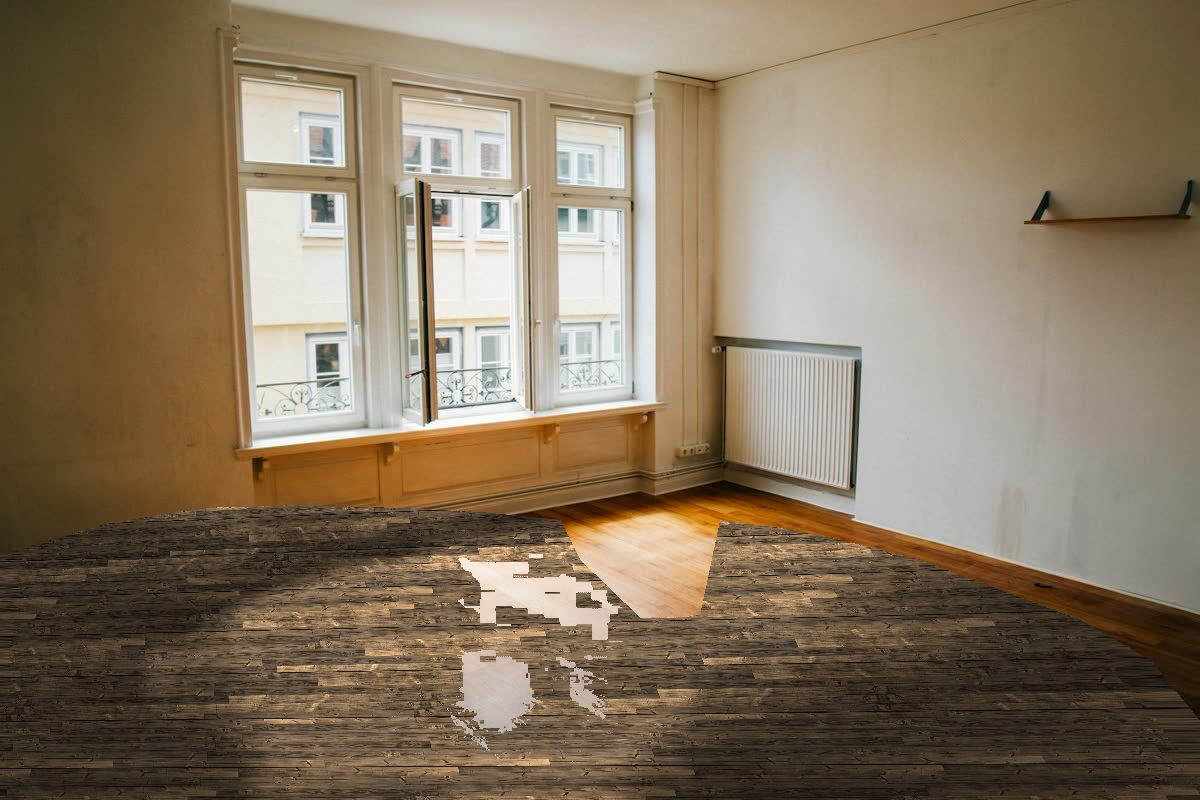
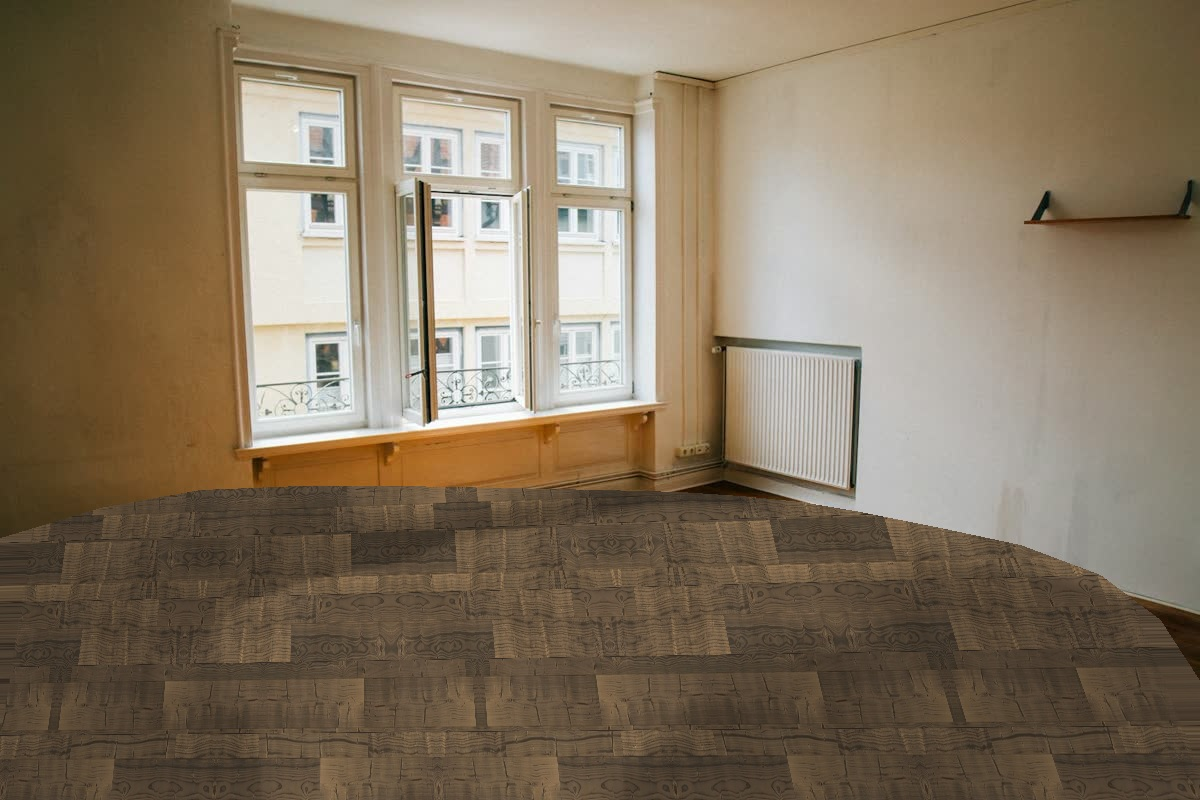
Calm living/open after planks: larger boards, lower contrast.
Rebuild only gallery after-living and after-open from warm-oak with
single-plank sampling, mirrored length tiling, and softer lighting mix.
Tighten open furniture occluders (no carpet-clear on beige seats). Leave
bath after, Denver before, footer, and GoatCounter untouched. Cache-bust
the two after URLs.

Changed region(s): [[0.0, 0.5938, 1.0, 1.0]]

diff --git a/projects.js b/projects.js
@@ -35,7 +35,7 @@ function seedProjects() {
       notes:
         "Example composite: warm oak plank look on the empty-room before photo (not a finished install photo).",
       before: [{ src: "gallery/before-living-empty.jpg?v=20260930b", label: "Before" }],
-      after: [{ src: "gallery/after-living-warm-oak.jpg?v=20260930b", label: "After" }],
+      after: [{ src: "gallery/after-living-warm-oak.jpg?v=20260930c", label: "After" }],
       createdAt: "2026-01-12T12:00:00.000Z"
     },
     {
@@ -61,7 +61,7 @@ function seedProjects() {
       notes:
         "Example composite: warm oak plank look on the open-plan before photo (not a finished install photo).",
       before: [{ src: "gallery/before-open-carpet.jpg?v=20260930b", label: "Before" }],
-      after: [{ src: "gallery/after-open-warm-oak.jpg?v=20260930b", label: "After" }],
+      after: [{ src: "gallery/after-open-warm-oak.jpg?v=20260930c", label: "After" }],
       createdAt: "2026-03-20T18:00:00.000Z"
     }
   ];

diff --git a/scripts/make_gallery_afters.py b/scripts/make_gallery_afters.py
@@ -30,41 +30,76 @@ def make_plank_floor(
     grain_along: str = "x",
     rotate_tex90: bool = False,
     length_mult=(48.0, 80.0),
+    contrast: float = 1.04,
+    tex_scale: float = 2.0,
+    jitter=(0.88, 1.12),
+    seam_rgb=(16, 20, 26),
 ) -> np.ndarray:
+    """Build a plank sheet. contrast<1 calms busy grain; keep tex_scale>=1 for crisp edges."""
     t = tex_bgr
     if rotate_tex90:
         t = cv2.rotate(t, cv2.ROTATE_90_CLOCKWISE)
     th, tw = t.shape[:2]
-    t = cv2.resize(t, (tw * 2, th * 2), interpolation=cv2.INTER_CUBIC)
-    th, tw = t.shape[:2]
+    if abs(tex_scale - 1.0) > 1e-3:
+        t = cv2.resize(
+            t,
+            (max(8, int(round(tw * tex_scale))), max(8, int(round(th * tex_scale)))),
+            interpolation=cv2.INTER_AREA if tex_scale < 1.0 else cv2.INTER_CUBIC,
+        )
+        th, tw = t.shape[:2]
+    # Lower contrast on source (no blur) so knots/grain calm down without mush
+    if abs(contrast - 1.0) > 1e-3:
+        lab = cv2.cvtColor(t, cv2.COLOR_BGR2LAB).astype(np.float32)
+        L = lab[:, :, 0]
+        mean_L = float(L.mean())
+        lab[:, :, 0] = np.clip((L - mean_L) * contrast + mean_L, 0, 255)
+        # Slightly pull chroma toward mean to reduce busy color flecks
+        for c in (1, 2):
+            ch = lab[:, :, c]
+            m = float(ch.mean())
+            lab[:, :, c] = np.clip((ch - m) * min(1.0, contrast + 0.08) + m, 0, 255)
+        t = cv2.cvtColor(lab.astype(np.uint8), cv2.COLOR_LAB2BGR)
     floor = np.zeros((out_h, out_w, 3), dtype=np.uint8)
-    seam_color = np.array([16, 20, 26], dtype=np.uint8)
+    seam_color = np.array(seam_rgb, dtype=np.uint8)
 
     def sample_board(dst_w, dst_h, along="x"):
+        # Warm-oak already contains ~12–15 source planks — sample ~one plank
+        # strip so boards don't inherit internal seams. Mirror-tile along
+        # length to avoid a hard grid of identical repeats.
+        def mirror_tile_1d(band, axis, need, origin):
+            unit = band
+            flip = np.flip(band, axis=axis)
+            parts = []
+            while True:
+                total = sum(p.shape[axis] for p in parts) if parts else 0
+                if total - origin >= need:
+                    break
+                parts.append(unit if len(parts) % 2 == 0 else flip)
+                if len(parts) > 64:
+                    break
+            tiled = np.concatenate(parts, axis=axis)
+            if axis == 1:
+                return tiled[:, origin : origin + need]
+            return tiled[origin : origin + need]
+
         if along == "x":
-            band_h = max(12, min(th // 3, th - 1))
+            band_h = max(12, min(max(18, th // 11), th - 1))
             sy = int(RNG.integers(0, max(1, th - band_h)))
             band = t[sy : sy + band_h]
             ox = int(RNG.integers(0, tw))
-            tiled = np.concatenate([band] * 8, axis=1)
             need = max(dst_w + 32, tw)
-            if tiled.shape[1] - ox < need:
-                tiled = np.concatenate([tiled, tiled], axis=1)
-            patch = tiled[:, ox : ox + need]
+            patch = mirror_tile_1d(band, 1, need, ox)
             board = cv2.resize(patch, (dst_w, dst_h), interpolation=cv2.INTER_LINEAR)
         else:
-            band_w = max(12, min(tw // 3, tw - 1))
+            band_w = max(12, min(max(18, tw // 11), tw - 1))
             sx = int(RNG.integers(0, max(1, tw - band_w)))
             band = t[:, sx : sx + band_w]
             oy = int(RNG.integers(0, th))
-            tiled = np.concatenate([band] * 8, axis=0)
             need = max(dst_h + 32, th)
-            if tiled.shape[0] - oy < need:
-                tiled = np.concatenate([tiled, tiled], axis=0)
-            patch = tiled[oy : oy + need]
+            patch = mirror_tile_1d(band, 0, need, oy)
             board = cv2.resize(patch, (dst_w, dst_h), interpolation=cv2.INTER_LINEAR)
-        jitter = float(RNG.uniform(0.88, 1.12))
-        return np.clip(board.astype(np.float32) * jitter, 0, 255).astype(np.uint8)
+        j = float(RNG.uniform(*jitter))
+        return np.clip(board.astype(np.float32) * j, 0, 255).astype(np.uint8)
 
     if grain_along == "x":
         y, row = 0, 0
@@ -105,8 +140,9 @@ def make_plank_floor(
             x = x2 + seam
             col += 1
 
+    # Mild midtone tidy only — avoid re-punching contrast after calm pass
     lab = cv2.cvtColor(floor, cv2.COLOR_BGR2LAB).astype(np.float32)
-    lab[:, :, 0] = np.clip((lab[:, :, 0] - 128) * 1.04 + 128, 0, 255)
+    lab[:, :, 0] = np.clip((lab[:, :, 0] - 128) * 1.01 + 128, 0, 255)
     return cv2.cvtColor(lab.astype(np.uint8), cv2.COLOR_LAB2BGR)
 
 
@@ -136,14 +172,20 @@ def luminance_ratio(bgr, mask, blur=71):
     return np.clip(cv2.GaussianBlur(L, (k, k), 0) / mean_L, 0.62, 1.4)
 
 
-def composite(before, warped, floor_mask, occluder_mask=None, lighting=True):
+def composite(before, warped, floor_mask, occluder_mask=None, lighting=True, light_mix=1.0, light_clip=(0.62, 1.4)):
+    """light_mix<1 blends luminance toward 1.0 (calmer); light_clip tightens extremes."""
     fm = floor_mask.astype(np.float32) / 255.0
     if occluder_mask is not None:
         fm = fm * (1.0 - occluder_mask.astype(np.float32) / 255.0)
     m = fm[..., None]
     floor = warped.astype(np.float32)
     if lighting:
-        floor = np.clip(floor * luminance_ratio(before, (fm * 255).astype(np.uint8))[..., None], 0, 255)
+        ratio = luminance_ratio(before, (fm * 255).astype(np.uint8))
+        lo, hi = light_clip
+        ratio = np.clip(ratio, lo, hi)
+        if light_mix < 1.0:
+            ratio = light_mix * ratio + (1.0 - light_mix)
+        floor = np.clip(floor * ratio[..., None], 0, 255)
     out = before.astype(np.float32) * (1.0 - m) + floor * m
     return np.clip(out, 0, 255).astype(np.uint8)
 
@@ -167,22 +209,27 @@ def make_living():
     h, w = before.shape[:2]
     tex = cv2.imread(str(TEXTURES / "warm-oak.jpg"))
     sheet = make_plank_floor(
-        tex, out_w=5200, out_h=3000, plank_w=210, seam=3,
-        grain_along="x", rotate_tex90=True, length_mult=(55.0, 90.0),
+        tex, out_w=5200, out_h=3000, plank_w=420, seam=2,
+        grain_along="x", rotate_tex90=True, length_mult=(85.0, 140.0),
+        contrast=0.55, tex_scale=1.0, jitter=(0.97, 1.03),
+        seam_rgb=(36, 42, 50),
     )
     # Stay on floor only — top edge = baseboard under windows (~y 490–540)
     floor_poly = [
-        (0, h - 1), (w - 1, h - 1), (w - 1, 700),
-        (1160, 640), (1100, 600), (1020, 560), (940, 535),
-        (860, 518), (800, 508), (740, 502), (680, 498),
-        (600, 496), (500, 494), (400, 492), (300, 491),
-        (200, 494), (100, 512), (0, 542),
+        (0, h - 1), (w - 1, h - 1), (w - 1, 680),
+        (1160, 620), (1100, 575), (1020, 545), (940, 528),
+        (860, 512), (800, 502), (740, 496), (680, 492),
+        (600, 490), (500, 488), (400, 486), (300, 486),
+        (200, 490), (100, 508), (0, 538),
     ]
-    floor_mask = poly_mask((h, w), floor_poly, feather=1)
+    floor_mask = poly_mask((h, w), floor_poly, feather=0)
     dst = np.array([[0, h - 1], [w - 1, h - 1], [1080, 500], [40, 535]], np.float32)
-    src = np.array([[50, 2900], [5150, 2900], [5150, 2900 - 210 * 6], [50, 2900 - 210 * 6]], np.float32)
+    src = np.array([[50, 2900], [5150, 2900], [5150, 2900 - 420 * 4], [50, 2900 - 420 * 4]], np.float32)
     warped = warp_floor(sheet, (h, w), src, dst)
-    after = composite(before, warped, floor_mask, None, lighting=True)
+    after = composite(
+        before, warped, floor_mask, None, lighting=True,
+        light_mix=0.65, light_clip=(0.80, 1.18),
+    )
     save_qa("living", before, floor_mask, None, after, sheet)
     path = GALLERY / "after-living-warm-oak.jpg"
     cv2.imwrite(str(path), after, [int(cv2.IMWRITE_JPEG_QUALITY), 94])
@@ -313,8 +360,10 @@ def make_open():
     h, w = before.shape[:2]
     tex = cv2.imread(str(TEXTURES / "warm-oak.jpg"))
     sheet = make_plank_floor(
-        tex, out_w=5000, out_h=4500, plank_w=185, seam=3,
-        grain_along="y", rotate_tex90=False, length_mult=(52.0, 88.0),
+        tex, out_w=5000, out_h=4500, plank_w=400, seam=2,
+        grain_along="y", rotate_tex90=False, length_mult=(85.0, 140.0),
+        contrast=0.52, tex_scale=1.0, jitter=(0.97, 1.03),
+        seam_rgb=(36, 42, 50),
     )
     # Floor envelope — do not climb furniture/walls; back edge ~y 400–420 at far carpet
     floor_poly = [
@@ -323,36 +372,57 @@ def make_open():
         (640, 412), (560, 420), (480, 450), (400, 510),
         (320, 575), (230, 650), (120, 720), (0, 770),
     ]
-    floor_mask = poly_mask((h, w), floor_poly, feather=1)
+    floor_mask = poly_mask((h, w), floor_poly, feather=0)
     # Wall safety: no overlay in top 38% of frame
     floor_mask[: int(h * 0.38), :] = 0
 
-    # Occluders: furniture (not carpet)
-    bgr = before.astype(np.float32)
-    brightness = bgr.mean(axis=2)
-    sat = bgr.max(axis=2) - bgr.min(axis=2)
-    carpet = ((brightness > 155) & (sat < 48)) | ((brightness > 125) & (brightness <= 155) & (sat < 38))
+    # Hard furniture silhouettes (beige fabric ~= carpet brightness, so NEVER
+    # use carpet-clear inside these — that was painting seats). Floor between
+    # chairs is simply outside these polys.
     occ = np.zeros((h, w), np.uint8)
-    cv2.fillPoly(occ, [np.array([(0, 450), (400, 440), (520, 565), (500, h - 1), (0, h - 1)], np.int32)], 255)
-    cv2.rectangle(occ, (300, 450), (415, 640), 255, -1)
-    for cx, cy, r in [(770, 530, 48), (860, 510, 48), (950, 530, 48), (800, 610, 38), (900, 620, 38), (980, 600, 38)]:
-        cv2.circle(occ, (cx, cy), r, 255, -1)
-    cv2.fillPoly(occ, [np.array([(460, 415), (650, 410), (730, 470), (700, 555), (510, 560), (440, 485)], np.int32)], 255)
-    cv2.ellipse(occ, (510, 470), (48, 62), 0, 0, 360, 255, -1)
-    # Keep furniture pixels; clear carpet between legs
-    furniture = (occ > 0) & (~carpet)
-    occ = furniture.astype(np.uint8) * 255
-    dining = np.zeros((h, w), np.uint8)
-    cv2.rectangle(dining, (700, 500), (1100, 700), 255, -1)
-    occ[(dining > 0) & carpet] = 0
-    for cx, cy, r in [(772, 575, 8), (852, 555, 8), (938, 575, 8), (814, 642, 7), (894, 655, 7), (974, 630, 7)]:
-        cv2.circle(occ, (cx, cy), r, 255, -1)
-    occ = cv2.GaussianBlur(occ, (5, 5), 0)
+    # Foreground left armchair body only — leave carpet in front / to the right for planks
+    cv2.fillPoly(
+        occ,
+        [np.array([
+            (0, 475), (230, 455), (305, 490), (335, 560),
+            (328, 655), (300, 705), (250, 725), (120, 735), (0, 720),
+        ], np.int32)],
+        255,
+    )
+    # Second armchair body + side table (not floor under/around)
+    cv2.fillPoly(
+        occ,
+        [np.array([
+            (290, 448), (420, 440), (485, 470), (510, 530),
+            (495, 600), (450, 640), (380, 645), (310, 615), (285, 540),
+        ], np.int32)],
+        255,
+    )
+    cv2.rectangle(occ, (405, 455), (515, 545), 255, -1)
+    # Mid: partial wall, plant, blue chair / lamp cluster
+    cv2.fillPoly(
+        occ,
+        [np.array([(450, 410), (650, 405), (735, 465), (705, 555), (520, 560), (440, 490)], np.int32)],
+        255,
+    )
+    cv2.ellipse(occ, (510, 470), (50, 64), 0, 0, 360, 255, -1)
+    # Dining chairs + table rim (ellipses cover seats/legs; gaps between = floor)
+    for cx, cy, rx, ry in [
+        (768, 515, 50, 66), (858, 500, 50, 64), (948, 515, 48, 66),
+        (805, 605, 44, 52), (898, 618, 44, 52), (978, 598, 44, 52),
+    ]:
+        cv2.ellipse(occ, (cx, cy), (rx, ry), 0, 0, 360, 255, -1)
+    cv2.ellipse(occ, (880, 468), (150, 26), 0, 0, 360, 255, -1)
+
+    occ = cv2.dilate(occ, np.ones((3, 3), np.uint8))
 
     dst = np.array([[0, h - 1], [w - 1, h - 1], [1020, 415], [80, 730]], np.float32)
-    src = np.array([[120, 4350], [4880, 4350], [4880, 4350 - 185 * 9], [120, 4350 - 185 * 9]], np.float32)
+    src = np.array([[120, 4350], [4880, 4350], [4880, 4350 - 400 * 5], [120, 4350 - 400 * 5]], np.float32)
     warped = warp_floor(sheet, (h, w), src, dst)
-    after = composite(before, warped, floor_mask, occ, lighting=True)
+    after = composite(
+        before, warped, floor_mask, occ, lighting=True,
+        light_mix=0.65, light_clip=(0.80, 1.18),
+    )
     save_qa("open", before, floor_mask, occ, after, sheet)
     path = GALLERY / "after-open-warm-oak.jpg"
     cv2.imwrite(str(path), after, [int(cv2.IMWRITE_JPEG_QUALITY), 94])
